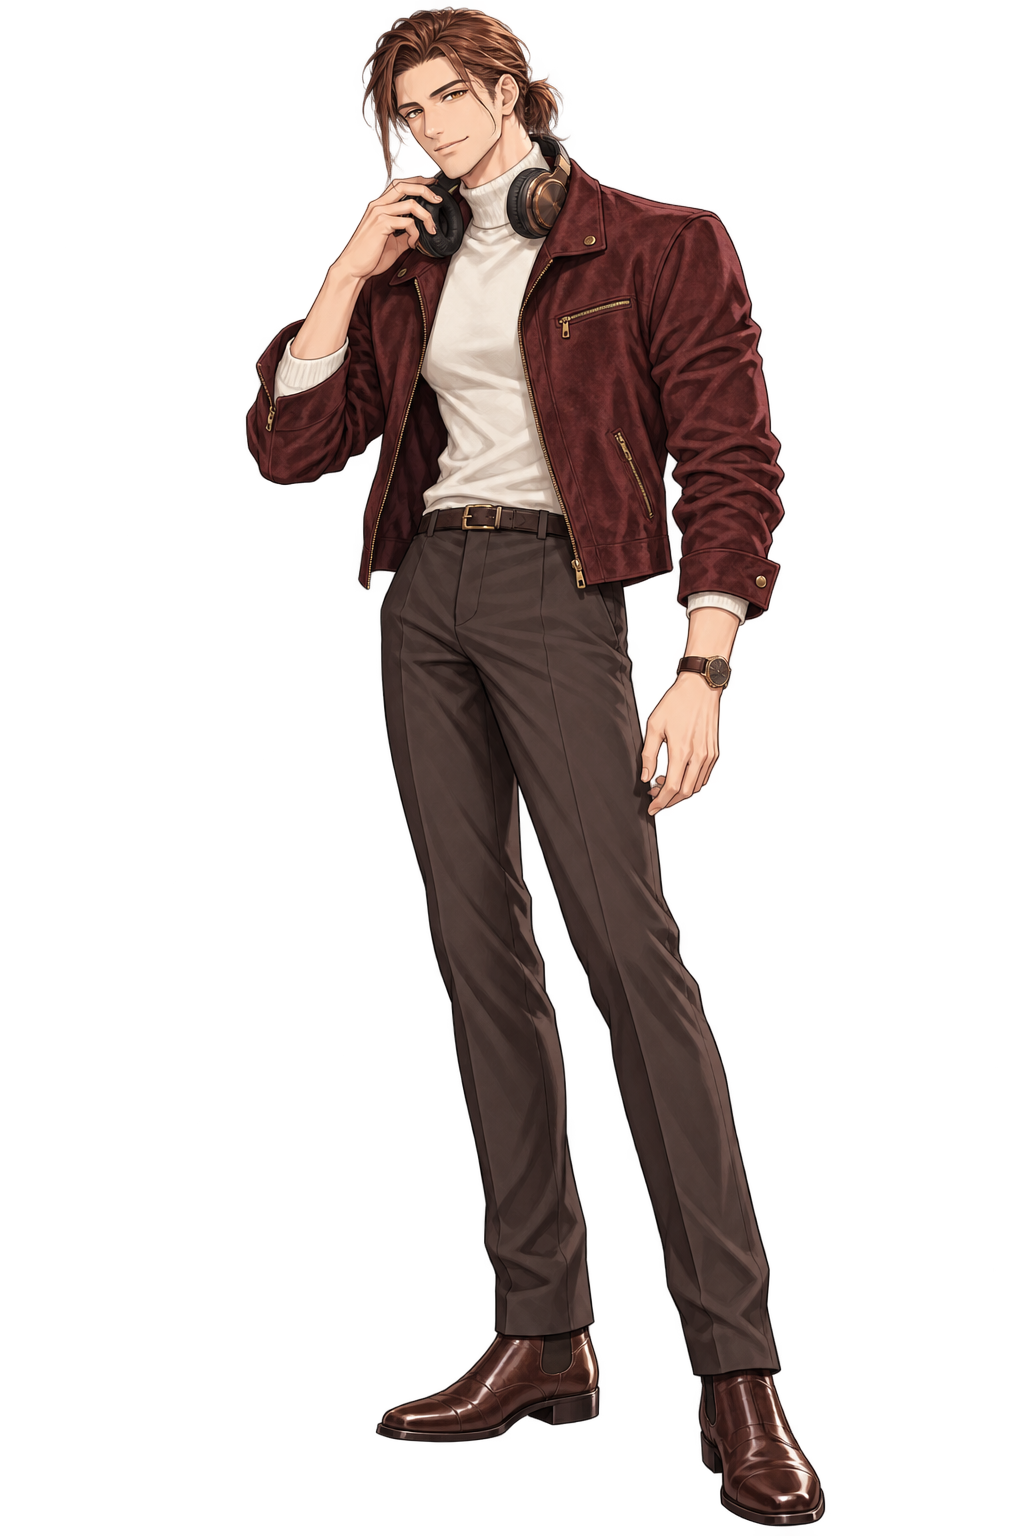
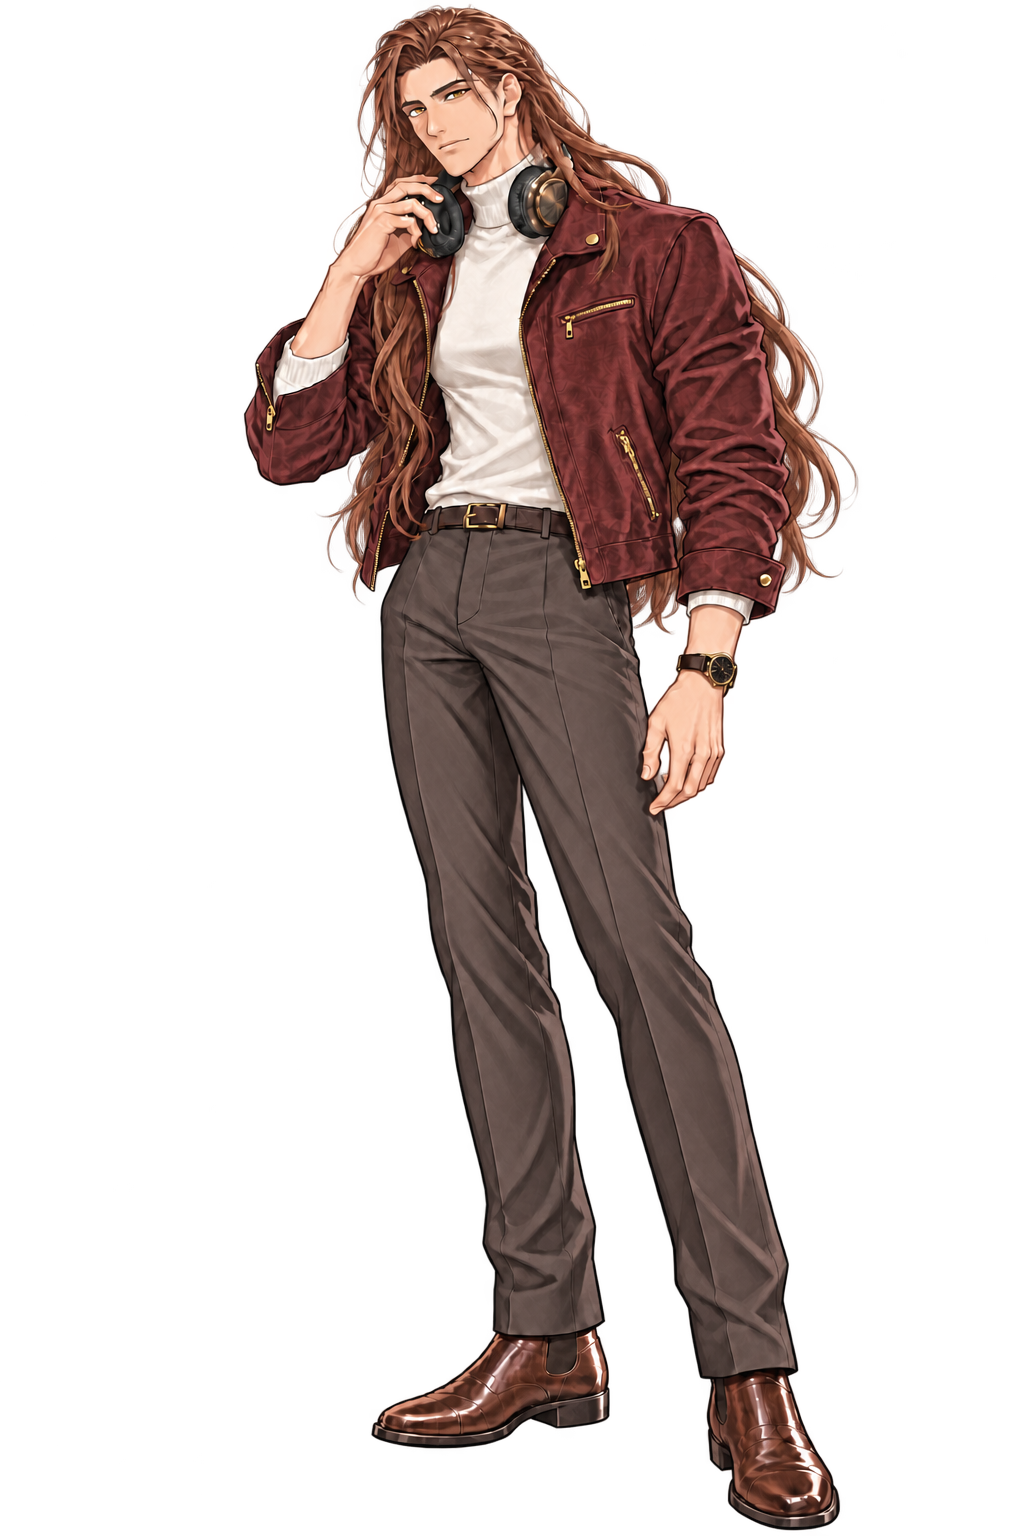
Finalize refined long-haired Qiche portrait in game

Changed region(s): [[0.2188, 0.0, 0.8438, 1.0]]

diff --git a/PARTNERS.md b/PARTNERS.md
@@ -3,6 +3,8 @@
 目前有两位伙伴：**闻序**登录后自动获得；**祁澈**在 Leisure 达到满分 **1,000,000** 后获得。旧版本的拥有记录继续保留。
 角色只用于伙伴展示，不修改分数、判定或 Rating。
 
+祁澈正式立绘采用栗棕长发披散及腰、平静稍严肃的版本，保留酒红外套、米白高领衫和耳机。正式图片仍使用 `assets/characters/qiche.png`，已有解锁和上场选择无需重新获取。
+
 ## 在游戏中使用
 
 - 在主页点击 Enter 下方的 **角色** 按钮、点击人物，或按 **C**，进入角色页。
